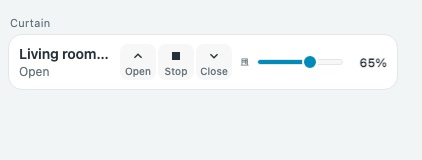
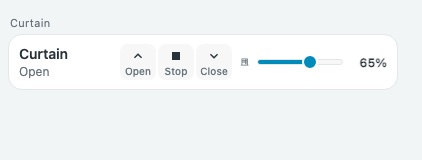
docs: address review of English image PR
Recapture images that disagreed with the committed locale, share one
dictionary between the preview pages, translate tooltips and status
text, and correct the image notes and polish.md link placement.

Changed region(s): [[0.0308, 0.2812, 0.2773, 0.4062]]

diff --git a/examples/preview-locale.js b/examples/preview-locale.js
@@ -3,14 +3,160 @@
 (()=>{
 const english=new URLSearchParams(location.search).get('lang')!=='ko';
 const dictionary={
- '거실 냉난방':'Living room climate','거실 조명':'Living room light','거실 커튼':'Curtain','거실 스피커':'Living room speaker','간접 조명':'Accent light','실내 온도':'Room temperature','습도':'Humidity','온도':'Temp','휴식':'Relax','취침':'Bedtime','가벼운 오후의 음악':'Light Afternoon Music','전기':'Electricity','거실':'Living room','환경':'Environment','냉난방':'Climate','홈 패널':'Home panel','조명':'Light','커튼':'Curtain','장면':'Scenes','미디어':'Media',
- '보일러':'Boiler','에어컨':'Air conditioner',
- '모의 상태를 사용한 브라우저 미리보기 · 실제 기기에 명령을 보내지 않습니다.':'Browser preview with mocked states · No commands are sent to real devices.','미리보기 너비':'Preview width','테마 변경':'Toggle theme','연결 상태 변경':'Toggle connection',
- '처리 중…':'Working…','설정 미리보기 반영 완료':'Config preview updated',
- '냉난방 너비·높이 확인':'Climate width and height check','냉난방 카드의 너비·높이':'Climate card width and height','같은 실제 카드 구현을 패널과 고정 높이 미리보기 부모 안에서 비교합니다.':'Compares the same real card in a panel and in a fixed-height preview parent.','패널 너비':'Panel width','냉난방 크기 검증용 모의 화면':'Mock view for climate size checks','실제 카드 코드 · 모의 상태 · 실제 기기 제어 없음':'Real card code · Mocked states · No real device control','홈 패널 · 보일러 2모드 / 에어컨 5모드':'Home panel · Boiler 2 modes / AC 5 modes','단독 카드 · 280 × 320px 그리드 부모':'Standalone card · 280 × 320px grid parent',
- '엔티티':'Entity','표시 설정':'Display','표시 이름':'Display name','열 수':'Columns','기본값':'Default','1열':'1 column','2열':'2 columns','3열':'3 columns','4열':'4 columns','위로':'Up','아래로':'Down','삭제':'Delete','항목 유형':'Item type','이름으로 센서 찾기':'Find sensor by name','제목':'Heading','메모':'Note','사용량 비교':'Usage comparison','페이지 이동':'Navigate','배지':'Badges','센서':'Sensor','배지 추가':'Add badge','아이콘':'Icon','터치 동작':'Tap action','이름 터치 동작':'Name tap action','기본 (상세 정보)':'Default (more info)','상세 정보':'More info','켜기/끄기 전환':'Toggle on/off','켜기/끄기':'Toggle on/off','이름 터치와 별개로 오른쪽 전용 제어를 사용할 수 있습니다. 기존 서비스 설정은 보존되며 전용 제어가 우선합니다.':'A dedicated control on the right can be used separately from the name tap. Existing service settings are preserved and the dedicated control takes priority.','실행 전 확인':'Confirm before running','확인 메시지 사용':'Use confirmation message','서비스 실행 버튼':'Service run button','이름을 누르면 엔티티 상세 정보를 엽니다.':'Tapping the name opens the entity details.','비교 항목':'Comparison row','항목 이름':'Item name','이번 달 센서':'This month sensor','지난달 센서':'Last month sensor','비교 항목 추가':'Add comparison row','항목 추가':'Add item','패널 이름':'Panel name','임계값':'Threshold','임계값 추가':'Add threshold','음량 표시':'Show volume','다음 곡 표시':'Show next track','항목':'Item',
- '음소거':'Muted','기준값':'Value','비교 방향':'Direction','강조 수준':'Emphasis','이상':'or above','이하':'or below','주의':'Warning','위험':'Critical','실내 환경':'Room environment',
- '실행':'Run','열기':'Open','정지':'Stop','닫기':'Close','이번 달 누적':'This month','지난달 전체':'Last month','차이':'Change','항목':'Item','재생 중':'Playing','난방':'Heating','냉방':'Cooling','송풍':'Fan','제습':'Dry','자동':'Auto','끄기':'Off','켜짐':'On','꺼짐':'Off','열림':'Open','닫힘':'Closed','일시정지':'Paused','대기':'Idle','확인 불가':'Unavailable'
+ '우리집':'My Home',
+ '우리집 · 거실과 침실, 자주 쓰는 조작을 한곳에':'My Home · Living room and bedroom, everyday controls in one place',
+ '테마 변경':'Toggle theme',
+ '모의 Home Assistant 대시보드':'Mock Home Assistant dashboard',
+ '실제 Compact Cards로 구성한 모의 대시보드입니다. 표시된 값과 동작은 예시이며 실제 기기에 연결하지 않습니다.':'A mock dashboard built with the real Compact Cards. Values and actions are examples and no real device is connected.',
+ '냉난방':'Climate',
+ '거실 조명':'Living room light',
+ '침실 조명':'Bedroom light',
+ '주방 조명':'Kitchen light',
+ '현관 조명':'Entryway light',
+ '책상 조명':'Desk light',
+ '베란다 조명':'Balcony light',
+ '침실 커튼':'Bedroom curtain',
+ '거실 온도':'Living room temperature',
+ '거실 습도':'Living room humidity',
+ '거실 CO₂':'Living room CO₂',
+ '침실 온도':'Bedroom temperature',
+ '침실 습도':'Bedroom humidity',
+ '이번 달 전기':'Electricity this month',
+ '지난달 전기':'Electricity last month',
+ '편안한 저녁':'Cozy evening',
+ '독서':'Reading',
+ '외출':'Away',
+ '취침':'Bedtime',
+ '거실 스피커':'Living room speaker',
+ '조용한 저녁의 피아노':'Quiet Evening Piano',
+ '창가에 흐르는 재즈':'Jazz by the Window',
+ '거실':'Living room',
+ '침실':'Bedroom',
+ '집 전체':'Whole home',
+ '온도':'Temp',
+ '습도':'Humidity',
+ '주방':'Kitchen',
+ '현관':'Entryway',
+ '책상':'Desk',
+ '베란다':'Balcony',
+ '조명·전원':'Lights & power',
+ '전기 사용량':'Electricity usage',
+ '전기':'Electricity',
+ '실행':'Run',
+ '열기':'Open',
+ '정지':'Stop',
+ '닫기':'Close',
+ '이번 달 누적':'This month',
+ '지난달 전체':'Last month',
+ '차이':'Change',
+ '항목':'Item',
+ '재생 중':'Playing',
+ '난방':'Heat',
+ '냉방':'Cool',
+ '송풍':'Fan',
+ '끄기':'Off',
+ '켜짐':'On',
+ '꺼짐':'Off',
+ '열림':'Open',
+ '닫힘':'Closed',
+ '일시정지':'Paused',
+ '대기':'Idle',
+ '확인 불가':'Unavailable',
+ '거실 냉난방':'Living room climate',
+ '거실 커튼':'Curtain',
+ '간접 조명':'Accent light',
+ '실내 온도':'Room temperature',
+ '휴식':'Relax',
+ '가벼운 오후의 음악':'Light Afternoon Music',
+ '환경':'Environment',
+ '홈 패널':'Home panel',
+ '조명':'Light',
+ '커튼':'Curtain',
+ '장면':'Scenes',
+ '미디어':'Media',
+ '보일러':'Boiler',
+ '에어컨':'AC',
+ '모의 상태를 사용한 브라우저 미리보기 · 실제 기기에 명령을 보내지 않습니다.':'Browser preview with mocked states · No commands are sent to real devices.',
+ '미리보기 너비':'Preview width',
+ '연결 상태 변경':'Toggle connection',
+ '처리 중…':'Working…',
+ '설정 미리보기 반영 완료':'Config preview updated',
+ '냉난방 너비·높이 확인':'Climate width and height check',
+ '냉난방 카드의 너비·높이':'Climate card width and height',
+ '같은 실제 카드 구현을 패널과 고정 높이 미리보기 부모 안에서 비교합니다.':'Compares the same real card in a panel and in a fixed-height preview parent.',
+ '패널 너비':'Panel width',
+ '냉난방 크기 검증용 모의 화면':'Mock view for climate size checks',
+ '실제 카드 코드 · 모의 상태 · 실제 기기 제어 없음':'Real card code · Mocked states · No real device control',
+ '홈 패널 · 보일러 2모드 / 에어컨 5모드':'Home panel · Boiler 2 modes / AC 5 modes',
+ '단독 카드 · 280 × 320px 그리드 부모':'Standalone card · 280 × 320px grid parent',
+ '엔티티':'Entity',
+ '표시 설정':'Display',
+ '표시 이름':'Display name',
+ '열 수':'Columns',
+ '기본값':'Default',
+ '1열':'1 column',
+ '2열':'2 columns',
+ '3열':'3 columns',
+ '4열':'4 columns',
+ '위로':'Up',
+ '아래로':'Down',
+ '삭제':'Delete',
+ '항목 유형':'Item type',
+ '이름으로 센서 찾기':'Find sensor by name',
+ '제목':'Heading',
+ '메모':'Note',
+ '사용량 비교':'Usage comparison',
+ '페이지 이동':'Navigate',
+ '배지':'Badges',
+ '센서':'Sensor',
+ '배지 추가':'Add badge',
+ '아이콘':'Icon',
+ '터치 동작':'Tap action',
+ '이름 터치 동작':'Name tap action',
+ '기본 (상세 정보)':'Default (more info)',
+ '상세 정보':'More info',
+ '켜기/끄기 전환':'Toggle on/off',
+ '켜기/끄기':'Toggle on/off',
+ '이름 터치와 별개로 오른쪽 전용 제어를 사용할 수 있습니다. 기존 서비스 설정은 보존되며 전용 제어가 우선합니다.':'A dedicated control on the right can be used separately from the name tap. Existing service settings are preserved and the dedicated control takes priority.',
+ '실행 전 확인':'Confirm before running',
+ '확인 메시지 사용':'Use confirmation message',
+ '서비스 실행 버튼':'Service run button',
+ '이름을 누르면 엔티티 상세 정보를 엽니다.':'Tapping the name opens the entity details.',
+ '비교 항목':'Comparison row',
+ '항목 이름':'Item name',
+ '이번 달 센서':'This month sensor',
+ '지난달 센서':'Last month sensor',
+ '비교 항목 추가':'Add comparison row',
+ '항목 추가':'Add item',
+ '패널 이름':'Panel name',
+ '임계값':'Threshold',
+ '임계값 추가':'Add threshold',
+ '음량 표시':'Show volume',
+ '다음 곡 표시':'Show next track',
+ '음소거':'Muted',
+ '기준값':'Value',
+ '비교 방향':'Direction',
+ '강조 수준':'Emphasis',
+ '이상':'or above',
+ '이하':'or below',
+ '주의':'Warning',
+ '위험':'Critical',
+ '실내 환경':'Room environment',
+ '제습':'Dry',
+ '자동':'Auto',
+ '실행 중':'Running',
+ '실행 요청 중':'Requesting run',
+ '요청 전달됨':'Request sent',
+ '요청 실패':'Request failed',
+ '변경 요청 중':'Sending change',
+ '현재 ':'Now ',
+ '설정 온도 낮추기':'Lower target temperature',
+ '설정 온도 높이기':'Raise target temperature',
+ '설정 온도':'Target temperature',
+ '운전 모드':'Mode',
+ '모의 정보':'mock info',
+ '실행 요청 중…':'Requesting run…',
+ '완료':'done'
 };
 const terms=Object.entries(dictionary).sort((a,b)=>b[0].length-a[0].length);
 const translate=value=>{
@@ -21,6 +167,7 @@ const translate=value=>{
  return value;
 };
 function localize(root=document.body){
+ if(!english)return;
  const walker=document.createTreeWalker(root,NodeFilter.SHOW_TEXT);
  for(let node=walker.nextNode();node;node=walker.nextNode()){
   let text=node.nodeValue;for(const [ko,en] of terms)text=text.split(ko).join(en);

diff --git a/examples/showcase.html b/examples/showcase.html
@@ -11,9 +11,6 @@
 <script>
 const showcaseParams=new URLSearchParams(location.search);
 document.documentElement.dataset.theme=showcaseParams.get('theme')==='dark'?'dark':'light';
-// English by default; ?lang=ko keeps the Korean sample text. Korean sample text is swapped for English; card-owned labels are swapped in the DOM after each render.
-const english=showcaseParams.get('lang')!=='ko';
-if(english)document.documentElement.lang='en';
 </script>
 </head>
 <body>
@@ -22,6 +19,7 @@ if(english)document.documentElement.lang='en';
 <footer>실제 Compact Cards로 구성한 모의 대시보드입니다. 표시된 값과 동작은 예시이며 실제 기기에 연결하지 않습니다.</footer>
 <div id="feedback" class="toast" role="status" aria-live="polite"></div>
 <script src="preview-icons.js"></script>
+<script src="preview-locale.js"></script>
 <script>
 // These two local primitives stand in for HA; all card layout/controls come from the real bundle.
 customElements.define('ha-card',class extends HTMLElement{constructor(){super();this.attachShadow({mode:'open'}).innerHTML='<style>:host{display:block;background:var(--card-background-color);border:1px solid var(--divider-color);border-radius:var(--ha-card-border-radius,14px);color:var(--primary-text-color)}</style><slot></slot>';}});
@@ -78,35 +76,13 @@ const rooms=[
   {type:'custom:compact-home-panel',columns:2,items:[{type:'heading',name:'조명·전원'},{entity:'light.kitchen',name:'주방'},{entity:'switch.entryway',name:'현관'},{entity:'switch.desk',name:'책상'},{entity:'switch.balcony',name:'베란다'},{type:'heading',name:'전기 사용량'},{type:'comparison',rows:[{name:'전기',entity:'sensor.electricity_this_month',previous:'sensor.electricity_last_month'}]}]},
  ]},
 ];
-const dictionary={'우리집':'My Home','우리집 · 거실과 침실, 자주 쓰는 조작을 한곳에':'My Home · Living room and bedroom, everyday controls in one place','테마 변경':'Toggle theme','모의 Home Assistant 대시보드':'Mock Home Assistant dashboard','실제 Compact Cards로 구성한 모의 대시보드입니다. 표시된 값과 동작은 예시이며 실제 기기에 연결하지 않습니다.':'A mock dashboard built with the real Compact Cards. Values and actions are examples and no real device is connected.',
-'냉난방':'Climate','거실 조명':'Living room light','침실 조명':'Bedroom light','주방 조명':'Kitchen light','현관 조명':'Entryway light','책상 조명':'Desk light','베란다 조명':'Balcony light','침실 커튼':'Bedroom curtain','거실 온도':'Living room temperature','거실 습도':'Living room humidity','거실 CO₂':'Living room CO₂','침실 온도':'Bedroom temperature','침실 습도':'Bedroom humidity','이번 달 전기':'Electricity this month','지난달 전기':'Electricity last month','편안한 저녁':'Cozy evening','독서':'Reading','외출':'Away','취침':'Bedtime','거실 스피커':'Living room speaker','조용한 저녁의 피아노':'Quiet Evening Piano','창가에 흐르는 재즈':'Jazz by the Window',
-'거실':'Living room','침실':'Bedroom','집 전체':'Whole home','온도':'Temp','습도':'Humidity','주방':'Kitchen','현관':'Entryway','책상':'Desk','베란다':'Balcony','조명·전원':'Lights & power','전기 사용량':'Electricity usage','전기':'Electricity',
-'실행':'Run','열기':'Open','정지':'Stop','닫기':'Close','이번 달 누적':'This month','지난달 전체':'Last month','차이':'Change','항목':'Item','재생 중':'Playing','난방':'Heating','냉방':'Cooling','송풍':'Fan','끄기':'Off','켜짐':'On','꺼짐':'Off','열림':'Open','닫힘':'Closed','일시정지':'Paused','대기':'Idle','확인 불가':'Unavailable'};
-const translate=value=>{
- if(!english)return value;
- if(typeof value==='string')return dictionary[value]??value;
- if(Array.isArray(value))return value.map(translate);
- if(value&&typeof value==='object')return Object.fromEntries(Object.entries(value).map(([key,item])=>[key,translate(item)]));
- return value;
-};
-const localeTerms=Object.entries(dictionary).sort((a,b)=>b[0].length-a[0].length);
-function localize(root){
- if(!english)return;
- const walker=document.createTreeWalker(root,NodeFilter.SHOW_TEXT);
- for(let node=walker.nextNode();node;node=walker.nextNode()){
-  let text=node.nodeValue;for(const [ko,en] of localeTerms)text=text.split(ko).join(en);
-  if(text!==node.nodeValue)node.nodeValue=text;
- }
- for(const element of root.querySelectorAll('*')){
-  const label=element.dataset?.label;if(label&&dictionary[label])element.dataset.label=dictionary[label];
-  if(element.shadowRoot)localize(element.shadowRoot);
- }
-}
+// English by default (see preview-locale.js); ?lang=ko keeps the Korean sample text.
+const {english,translate,localize,dictionary}=compactPreviewLocale;
 const cards=[],timers=new Map();let toastTimer;
 function announce(message){clearTimeout(toastTimer);document.querySelector('#feedback').textContent=message;toastTimer=setTimeout(()=>document.querySelector('#feedback').textContent='',2200);}
 function refresh(){for(const card of cards)card.hass={...hass};localize(document.body);}
 const hass={states:structuredClone(translate(initial)),config:{unit_system:{temperature:'°C'}},formatEntityState:state=>{
- const labels=english?{heat:'Heating',cool:'Cooling',fan_only:'Fan',on:'On',off:'Off',open:'Open',closed:'Closed',opening:'Opening',closing:'Closing',playing:'Playing',paused:'Paused',idle:'Idle'}:{heat:'난방',cool:'냉방',fan_only:'송풍',on:'켜짐',off:'꺼짐',open:'열림',closed:'닫힘',opening:'여는 중',closing:'닫는 중',playing:'재생 중',paused:'일시정지',idle:'대기'};
+ const labels=english?{heat:'Heat',cool:'Cool',fan_only:'Fan',on:'On',off:'Off',open:'Open',closed:'Closed',opening:'Opening',closing:'Closing',playing:'Playing',paused:'Paused',idle:'Idle'}:{heat:'난방',cool:'냉방',fan_only:'송풍',on:'켜짐',off:'꺼짐',open:'열림',closed:'닫힘',opening:'여는 중',closing:'닫는 중',playing:'재생 중',paused:'일시정지',idle:'대기'};
  return `${labels[state.state]||state.state}${state.attributes.unit_of_measurement?' '+state.attributes.unit_of_measurement:''}`;
 },callService:async(domain,service,data)=>{
  await new Promise(resolve=>setTimeout(resolve,350));const state=hass.states[data.entity_id];if(!state)throw new Error('모의 엔티티를 찾을 수 없습니다.');
@@ -131,8 +107,8 @@ const hass={states:structuredClone(translate(initial)),config:{unit_system:{temp
  refresh();
 }};
 for(const room of translate(rooms)){const section=document.createElement('section');section.className='room';const heading=document.createElement('h2');heading.className='room-heading';const icon=document.createElement('ha-icon');icon.setAttribute('icon',room.icon);icon.setAttribute('aria-hidden','true');heading.append(icon,document.createTextNode(room.name));const group=document.createElement('div');group.className='cards';section.append(heading,group);document.querySelector('main').append(section);for(const config of room.cards){const card=document.createElement(config.type.replace('custom:',''));card.setConfig(config);card.hass=hass;group.append(card);cards.push(card);}}
-localize(document.body);
-if(english){setInterval(()=>localize(document.body),200);for(const [selector,key] of [['.caption','우리집 · 거실과 침실, 자주 쓰는 조작을 한곳에'],['footer','실제 Compact Cards로 구성한 모의 대시보드입니다. 표시된 값과 동작은 예시이며 실제 기기에 연결하지 않습니다.'],['#theme','테마 변경']])document.querySelector(selector).textContent=dictionary[key];document.querySelector('main').setAttribute('aria-label',dictionary['모의 Home Assistant 대시보드']);document.title='Compact Cards · My Home';}
+compactPreviewLocale.start();
+if(english){for(const [selector,key] of [['.caption','우리집 · 거실과 침실, 자주 쓰는 조작을 한곳에'],['footer','실제 Compact Cards로 구성한 모의 대시보드입니다. 표시된 값과 동작은 예시이며 실제 기기에 연결하지 않습니다.'],['#theme','테마 변경']])document.querySelector(selector).textContent=dictionary[key];document.querySelector('main').setAttribute('aria-label',dictionary['모의 Home Assistant 대시보드']);document.title='Compact Cards · My Home';}
 document.querySelector('#theme').onclick=()=>{document.documentElement.dataset.theme=document.documentElement.dataset.theme==='dark'?'light':'dark';};
 document.addEventListener('hass-more-info',event=>{const state=hass.states[event.detail.entityId];announce(`${state?.attributes.friendly_name||event.detail.entityId} · ${state?hass.formatEntityState(state):'확인 불가'} (모의 정보)`);});
 document.addEventListener('hass-notification',event=>announce(event.detail.message));

diff --git a/images/README.md b/images/README.md
@@ -18,6 +18,8 @@ These demonstrate three room groups with ten real card instances, seven card typ
 
 ## Languages
 
-Images without a suffix are English and are used by `README.md` and the English sections of the guides. `*-ko.jpg` are the Korean versions used by `README.ko.md` and the Korean sections, with the same names, viewports and mocked states. The preview pages (`preview.html`, `climate-fit.html`, `showcase.html`) render English by default; add `lang=ko` to the URL for the Korean captures.
+Images without a suffix are English and are used by `README.md` and the English sections of the guides. `*-ko.jpg` are the Korean versions used by `README.ko.md` and the Korean sections. The preview pages (`preview.html`, `climate-fit.html`, `showcase.html`) render English by default; add `lang=ko` to the URL for the Korean captures.
 
-The cards' own labels are Korean-only in the bundle, so English captures swap the Korean sample text and card-rendered labels in the page's DOM through `examples/preview-locale.js` (preview only; the bundle is unchanged). Everything above that describes the captures (`showcase-*.jpg`, `compact-*.jpg`, `overview.jpg`, `visual-editor.jpg`) applies to both languages. `compact-home-editor` and `visual-editor` are captured after expanding the editor sections they show (home panel: item 2 only; environment panel: item 1 with one added `31°C or above · Warning` threshold, `이상 · 주의` in Korean).
+The `-ko` images are the original captures, taken from the source commits named above. The English images were captured later from the current bundle (source `b7e4109`, the v0.2.4 release) at the same viewports with the same mocked states, so small layout differences against the `-ko` twins (for example the climate mode-button order) come from bundle changes, not from translation. English text is slightly wider, so in `compact-climate-inline.jpg` the five-mode air conditioner row wraps its modes onto a second line, which fits on one line in Korean.
+
+The cards' own labels are Korean-only in the bundle, so English captures swap the Korean sample text and card-rendered labels in the page's DOM through `examples/preview-locale.js` (preview only; the bundle is unchanged; tooltips and some status messages are translated best-effort). `preview.html` also accepts `width=320|390|760` to set the preview width for capture. `compact-home-editor` and `visual-editor` are captured after expanding the editor sections they show (home panel: item 2 only; environment panel: item 1 with one added `31°C or above · Warning` threshold, `이상 · 주의` in Korean).

diff --git a/docs/polish.md b/docs/polish.md
@@ -14,6 +14,8 @@
 
 다른 항목으로 재설정하거나 카드가 화면에서 제거되면 피드백과 타이머를 정리합니다. 늦게 반환된 이전 요청이 새 설정에 성공 표시를 덮어쓰지 않습니다. `prefers-reduced-motion: reduce`에서는 아이콘 반복 움직임과 전환을 줄입니다. 요청 상태 표시와 접근성 안내는 유지됩니다.
 
+[전체 카드 대표 화면](../images/overview-ko.jpg) · [카드별 상세 가이드](../README.ko.md#카드와-사용-가이드)
+
 ## English
 
 [Overview of all cards](../images/overview.jpg) · [Per-card guides](../README.md#cards-and-guides)
@@ -21,5 +23,3 @@
 All seven cards receive subtle press feedback without new configuration or added layout space. Pending controls dim subtly and block duplicate requests, with a polite live status. Only failures show a thin error line; transient completion feedback clears after about 1.8 seconds. Success means the service request returned, not that a physical device completed its action. Reported device states remain authoritative.
 
 Fan rotation and cover arrow movement follow actual active state only; cover Stop remains usable while an opening request is pending. Scene shortcuts briefly show request acceptance, and media playback uses a small static dot. Reconfiguration/disconnection clears feedback and prevents stale responses from labeling a different configuration. Reduced-motion preferences disable movement while retaining status feedback.
-
-[전체 카드 대표 화면](../images/overview-ko.jpg) · [카드별 상세 가이드](../README.ko.md#카드와-사용-가이드)

diff --git a/docs/compact-climate-row.md b/docs/compact-climate-row.md
@@ -98,7 +98,7 @@ items:
 
 ![Climate card](../images/compact-climate-row.jpg)
 
-![Boiler and air conditioner on one line in a 390px panel](../images/compact-climate-inline.jpg)
+![Boiler and air conditioner rows in a 390px panel](../images/compact-climate-inline.jpg)
 
 ![Standalone card using only its content height in a 320px-tall parent](../images/compact-climate-picker.jpg)
 
